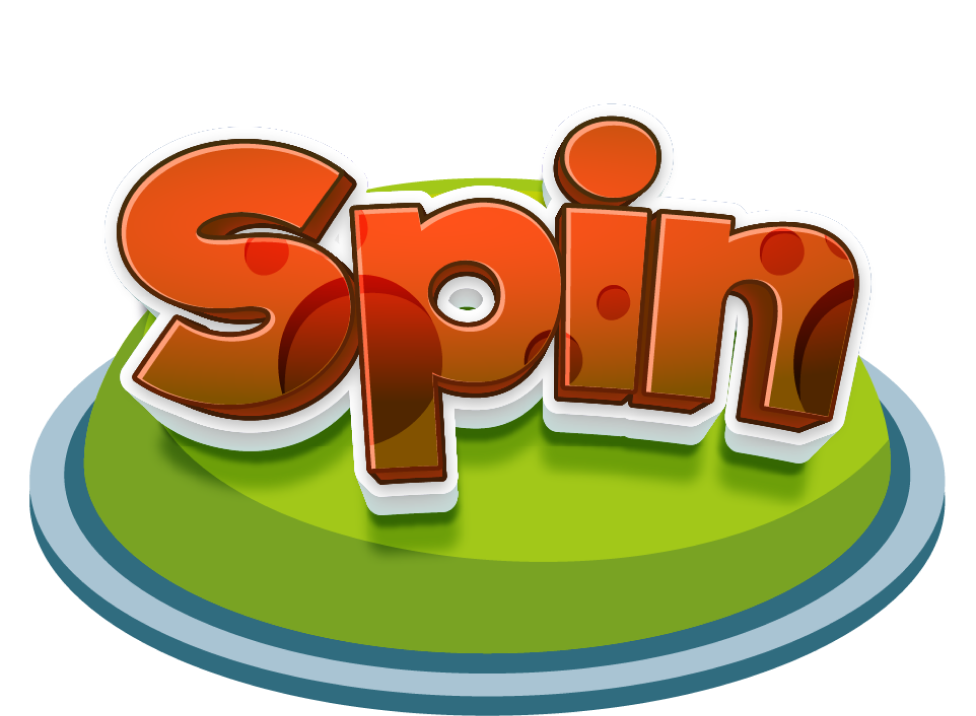
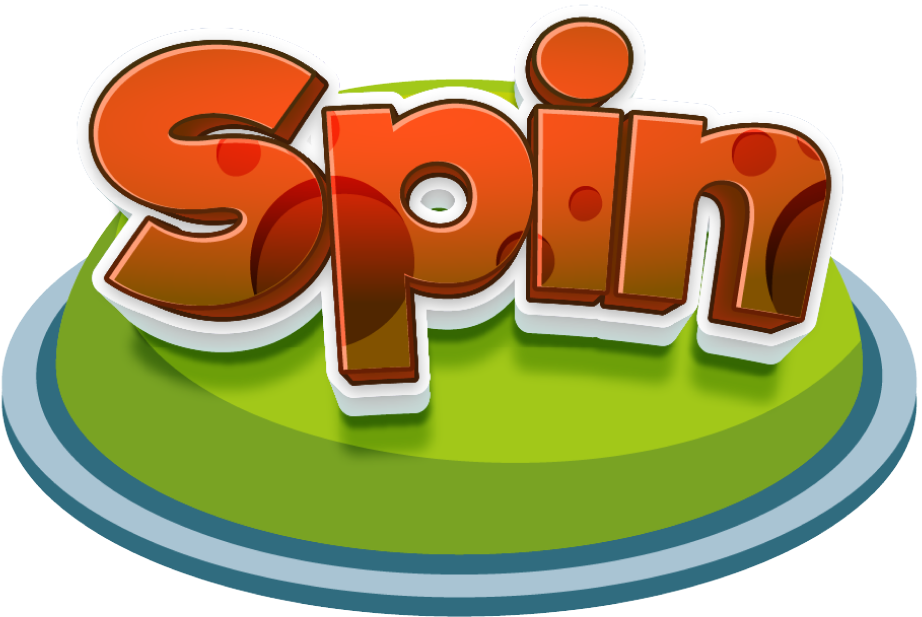
ui slot

diff --git a/src/css/style.css b/src/css/style.css
@@ -43,6 +43,16 @@
 .read-the-docs {
     color: #888;
 }
+span.bonus-text {
+    color: #FFF;
+    -webkit-text-stroke: 3px #5C4300;
+    text-shadow: 5.132px 5.132px 5.132px rgba(0, 0, 0, 0.50);
+    text-align: right;
+    font-size: 28.592px;
+    font-style: normal;
+    font-weight: 700;
+    line-height: normal;
+}
 .session-box {
     width: 430px;
     height: 100vh;
@@ -85,8 +95,13 @@
     background-image: url("../src/images/logo2.png");
     background-size: 100% 100%;
     background-position: center;
-    width: 411px;
-    height: 266px;
+    width: 381px;
+    height: 203px;
+    margin-top: -1rem;
+}
+.icon-group-modal {
+    display: flex;
+    justify-content: flex-end;
 }
 .logo-load{
     width: 258px;
@@ -94,22 +109,38 @@
     margin: 2rem auto;
 }
 .bnt-game{
-    width: 289px;
-    height: 138px;
+    background-image: url("../src/images/bnt.png");
+    background-size: 100% 100%;
+    background-position: center;
+    width: 187px;
+    height: 89px;
     cursor: pointer;
     margin: auto;
     position: fixed;
     bottom: 0rem;
-    transform: translate(-50%, -50%);
+    transform: translate(-50%, -140%);
     left: 50%;
 }
-h2.bg-bonus {
-    background-image: url("../src/images/bg-bonus1.png");
+.bnt-game:hover{
+    background-image: url("../src/images/bnt1.png");
     background-size: 100% 100%;
     background-position: center;
-    width: 321px;
-    height: 167.327px;
-    padding: 6rem 1rem 1rem 6rem;
+    width: 187px;
+    height: 89px;
+    cursor: pointer;
+    margin: auto;
+    position: fixed;
+    bottom: 0rem;
+    transform: translate(-50%, -140%);
+    left: 50%;
+}
+.bg-bonus {
+    background-image: url("../src/images/bg-bonus.png");
+    background-size: 100% 100%;
+    background-position: center;
+    width: 384px;
+    height: 162.302px;
+    padding: 6rem 1rem 1rem 12rem;
 }
 .bt-spin {
     background-image: url(../src/images/bnt-spin.png);
@@ -120,4 +151,131 @@ h2.bg-bonus {
     cursor: pointer;
     margin: auto;
 
+}
+.bt-spin:hover {
+    background-image: url(../src/images/bnt-spin1.png);
+    background-size: 100% 100%;
+    background-position: center;
+    width: 244px;
+    height: 179px;
+    cursor: pointer;
+    margin: auto;
+
+}
+.icon-head {
+    display: flex;
+    justify-content: space-between;
+}
+.icon-music{
+    background-image: url(../src/images/icon-music.png);
+    background-size: 100% 100%;
+    background-position: center;
+    width: 60px;
+    height: 51px;
+    cursor: pointer;
+}
+.icon-close{
+    background-image: url(../src/images/icon-close.png);
+    background-size: 100% 100%;
+    background-position: center;
+    width: 60px;
+    height: 50px;
+    cursor: pointer;
+}
+.icon-close-modal{
+    background-image: url(../src/images/icon-close.png);
+    background-size: 100% 100%;
+    background-position: center;
+    width: 60px;
+    height: 50px;
+    cursor: pointer;
+}
+.icon-group-modal- {
+    position: absolute;
+    bottom: 2rem;
+    display: grid;
+    grid-gap: 1rem;
+}
+.icon-home-modal{
+    background-image: url(../src/images/icon-home.png);
+    background-size: 100% 100%;
+    background-position: center;
+    width: 60px;
+    height: 50px;
+    cursor: pointer;
+}
+.icon-music-modal{
+    background-image: url(../src/images/icon-music.png);
+    background-size: 100% 100%;
+    background-position: center;
+    width: 60px;
+    height: 50px;
+    cursor: pointer;
+}
+@media screen and (max-width: 500px){
+    .session-box,.background-Loading,.background-Modal,.background-Home {
+        width: 100%;
+    }
+    .bnt-game {
+        transform: translate(-50%, -110%);
+    }
+    .bnt-game:hover {
+        transform: translate(-50%, -110%);
+    }
+    .group-logo-head {
+        display: flex;
+        justify-content: center;
+    }
+    .logo-head {
+        width: 331px;
+        height: 186px;
+        margin-top: -1rem;
+    }
+    .bg-bonus {
+        width: 380px;
+        height: 162px;
+        margin-top: -1rem;
+        padding: 5.9rem 1rem 1rem 15rem;
+    }
+    .bt-spin {
+        width: 214px;
+        height: 149px;
+        margin-top: -1rem;
+    }
+    .bt-spin:hover {
+        width: 214px;
+        height: 149px;
+        margin-top: -1rem;
+    }
+}
+@media screen and (max-width: 380px){
+    .session-box,.background-Loading,.background-Modal,.background-Home {
+        width: 100%;
+    }
+    .bnt-game {
+        transform: translate(-50%, -60%);
+    }
+    .bnt-game:hover {
+        transform: translate(-50%, -60%);
+    }
+    .logo-head {
+        width: 331px;
+        height: 165px;
+    }
+    .bg-bonus {
+        width: 310px;
+        height: 110px;
+        margin-top: -1rem;
+        padding: 3.5rem 1rem 1rem 10rem;
+    }
+    .bt-spin {
+        width: 165px;
+        height: 90px;
+        margin-top: -1rem;
+    }
+    .bt-spin:hover {
+        width: 165px;
+        height: 90px;
+        margin-top: -1rem;
+    }
 }

diff --git a/src/components/Home.jsx b/src/components/Home.jsx
@@ -78,12 +78,14 @@ function Home() {
     return (
       <div className="session-box">
         <div className="background-Modal">
-          <img
-            src="../src/images/bnt.png"
-            alt="ปิด"
-            onClick={handleAdClose}
-            className="bnt-game"
-          />
+          <div className="icon-group-modal">
+            <div className="icon-close-modal"></div>
+          </div>
+          <div className="icon-group-modal-">
+            <div className="icon-home-modal"></div>
+            <div className="icon-music-modal"></div>
+          </div>
+          <div onClick={handleAdClose} className="bnt-game"></div>
         </div>
       </div>
     );
@@ -92,7 +94,13 @@ function Home() {
   return (
     <div className="session-box">
       <div className="background-Home">
-        <div className="logo-head"></div>
+        <div className="icon-head">
+          <div className="icon-music"></div>
+          <div className="icon-close"></div>
+        </div>
+        <div className="group-logo-head">
+          <div className="logo-head"></div>
+        </div>
         <div className="spinner-container">
           {position.map((pos, index) => (
             <div
@@ -103,7 +111,9 @@ function Home() {
           ))}
         </div>
         <div className="group-bnt">
-          <h2 className="bg-bonus">{score}</h2>
+          <div className="bg-bonus">
+            <span className="bonus-text">{score} ฿</span>
+          </div>
           <div
             aria-label="Play again."
             onClick={handleClick}

diff --git a/src/index.css b/src/index.css
@@ -77,7 +77,8 @@ h1 span {
   align-items: center;
   grid-template-columns: 1fr 1fr 1fr;
   grid-gap: 5px;
-  padding: 2rem;
+  padding: 1.3rem;
+  margin-top: -1rem;
 }
 
 .app-wrap.winner-false {
@@ -150,4 +151,23 @@ body {
   background-color: #25D9F5;
   transition:  width 0.5 ease-out;
   color: #fff;
+}
+
+@media screen and (max-width: 500px){
+  .icons {
+    height: 320px;
+  }
+  .spinner-container {
+    padding: 1.5rem;
+    margin-top: -1.5rem;
+  }
+}
+@media screen and (max-width: 380px){
+  .icons {
+    height: 240px;
+  }
+  .spinner-container {
+    padding: 1.5rem;
+    margin-top: -1.5rem;
+  }
 }
